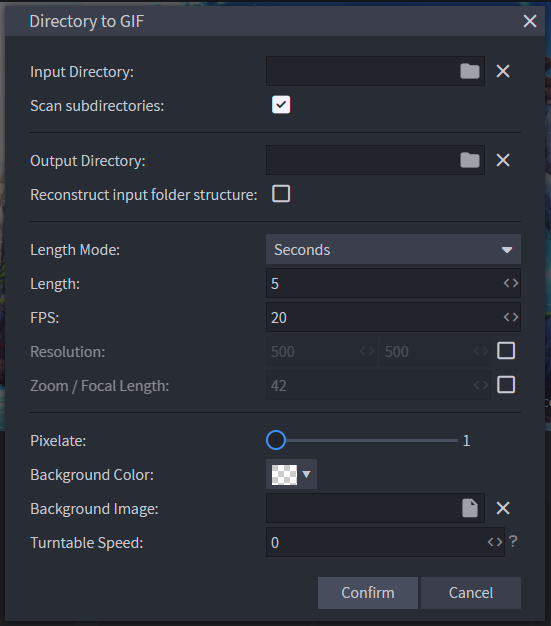
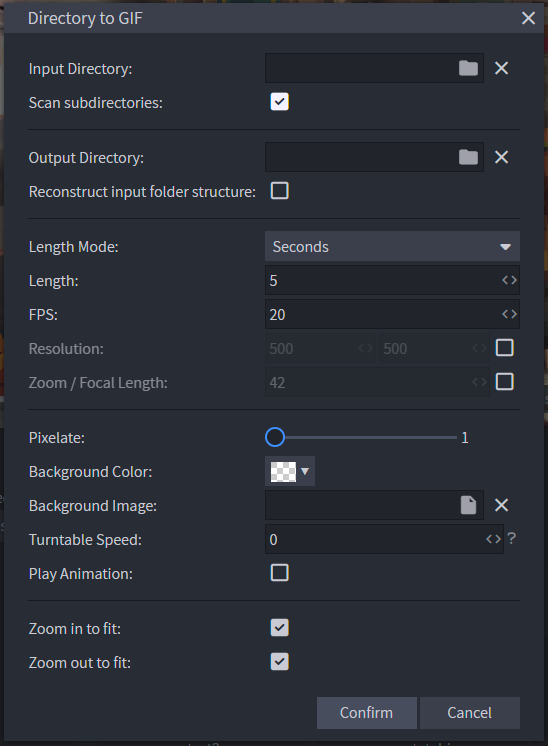
added zoom in

diff --git a/directory_to_gif.js b/directory_to_gif.js
@@ -19,13 +19,13 @@
       }
 
     async function recordModel(options, out_path) {
-        
+
         Modes.options.edit.select();
         SharedActions.run('select_all');
         Blockbench.dispatchEvent('select_all');
         Modes.options.animate.select();
         BarItems.focus_on_selection.trigger("click");
-        await fit_model();
+        await fit_model(options.zoom_in, options.zoom_out);
 
         await new Promise((resolve) => setTimeout(resolve, 1000));
 
@@ -80,10 +80,20 @@
         return true;
     }
 
-    async function fit_model() {
-        while (!does_model_fit()) {
+    async function fit_model(zoom_in, zoom_out) {
+        if (zoom_in) {
+            while (does_model_fit()) {
+                setZoomLevel('in');
+                await new Promise((resolve) => setTimeout(resolve, 1));
+            }
             setZoomLevel('out');
-            await new Promise((resolve) => setTimeout(resolve, 1));
+            setZoomLevel('out');
+        }
+        if (zoom_out) {
+            while (!does_model_fit()) {
+                setZoomLevel('out');
+                await new Promise((resolve) => setTimeout(resolve, 1));
+            }
         }
     }
 
@@ -97,11 +107,11 @@
                 //     apng: 'APNG',
                 //     png_sequence: 'dialog.create_gif.format.png_sequence',
                 // }},
-                input_dir:   {label: 'Input Directory', type: 'folder'},
-                input_rec: 	 {label: 'Scan subdirectories', type: 'checkbox', value: true},
+                input_dir:	{label: 'Input Directory', type: 'folder'},
+                input_rec:	{label: 'Scan subdirectories', type: 'checkbox', value: true},
                 '_0': '_',
-                output_dir:  {label: 'Output Directory', type: 'folder'},
-                output_struct: 	{label: 'Reconstruct input folder structure', type: 'checkbox'},
+                output_dir:	{label: 'Output Directory', type: 'folder'},
+                output_struct:	{label: 'Reconstruct input folder structure', type: 'checkbox'},
                 '_1': '_',
                 length_mode: {label: 'dialog.create_gif.length_mode', type: 'select', default: 'seconds', options: {
                     seconds: 'dialog.create_gif.length_mode.seconds',
@@ -109,16 +119,19 @@
                     animation: 'dialog.create_gif.length_mode.animation',
                     turntable: 'dialog.create_gif.length_mode.turntable',
                 }},
-                length: 	{label: 'dialog.create_gif.length', type: 'number', value: 5, min: 0.1, step: 0.25, condition: (form) => ['seconds', 'frames'].includes(form.length_mode)},
-                fps: 		{label: 'dialog.create_gif.fps', type: 'number', value: 20, min: 0.5, max: 120},
-                resolution: {type: 'vector', label: 'dialog.advanced_screenshot.resolution', dimensions: 2, value: [500, 500], toggle_enabled: true, toggle_default: false},
-                zoom: 		{type: 'number', label: 'dialog.advanced_screenshot.zoom', value: 42, toggle_enabled: true, toggle_default: false},
+                length:		{label: 'dialog.create_gif.length', type: 'number', value: 5, min: 0.1, step: 0.25, condition: (form) => ['seconds', 'frames'].includes(form.length_mode)},
+                fps:		{label: 'dialog.create_gif.fps', type: 'number', value: 20, min: 0.5, max: 120},
+                resolution:	{type: 'vector', label: 'dialog.advanced_screenshot.resolution', dimensions: 2, value: [500, 500], toggle_enabled: true, toggle_default: false},
+                zoom:		{type: 'number', label: 'dialog.advanced_screenshot.zoom', value: 42, toggle_enabled: true, toggle_default: false},
                 '_2': '_',
                 pixelate:	{label: 'dialog.create_gif.pixelate', type: 'range', value: 1, min: 1, max: 8, step: 1},
-                color:  	{label: 'dialog.create_gif.color', type: 'color', value: '#00000000'},
-                bg_image:  	{label: 'dialog.create_gif.bg_image', type: 'file', extensions: ['png'], readtype: 'image', filetype: 'PNG'},
+                color:		{label: 'dialog.create_gif.color', type: 'color', value: '#00000000'},
+                bg_image:	{label: 'dialog.create_gif.bg_image', type: 'file', extensions: ['png'], readtype: 'image', filetype: 'PNG'},
                 turn:		{label: 'dialog.create_gif.turn', type: 'number', value: 0, min: -90, max: 90, description: 'dialog.create_gif.turn.desc'},
-                play: 		{label: 'dialog.create_gif.play', type: 'checkbox'},
+                play:		{label: 'dialog.create_gif.play', type: 'checkbox'},
+                '_3': '_',
+                zoom_in:	{label: 'Zoom in to fit', type: 'checkbox', value: true},
+                zoom_out:	{label: 'Zoom out to fit', type: 'checkbox', value: true},
             },
             onConfirm(formData) {
                 let background = formData.color.toHex8String() != '#00000000' ? formData.color.toHexString() : undefined;
@@ -143,6 +156,8 @@
                     background_image: formData.bg_image,
                     play: formData.play,
                     turnspeed: formData.turn,
+                    zoom_in: formData.zoom_in,
+                    zoom_out: formData.zoom_out
                 })
             }
         })
